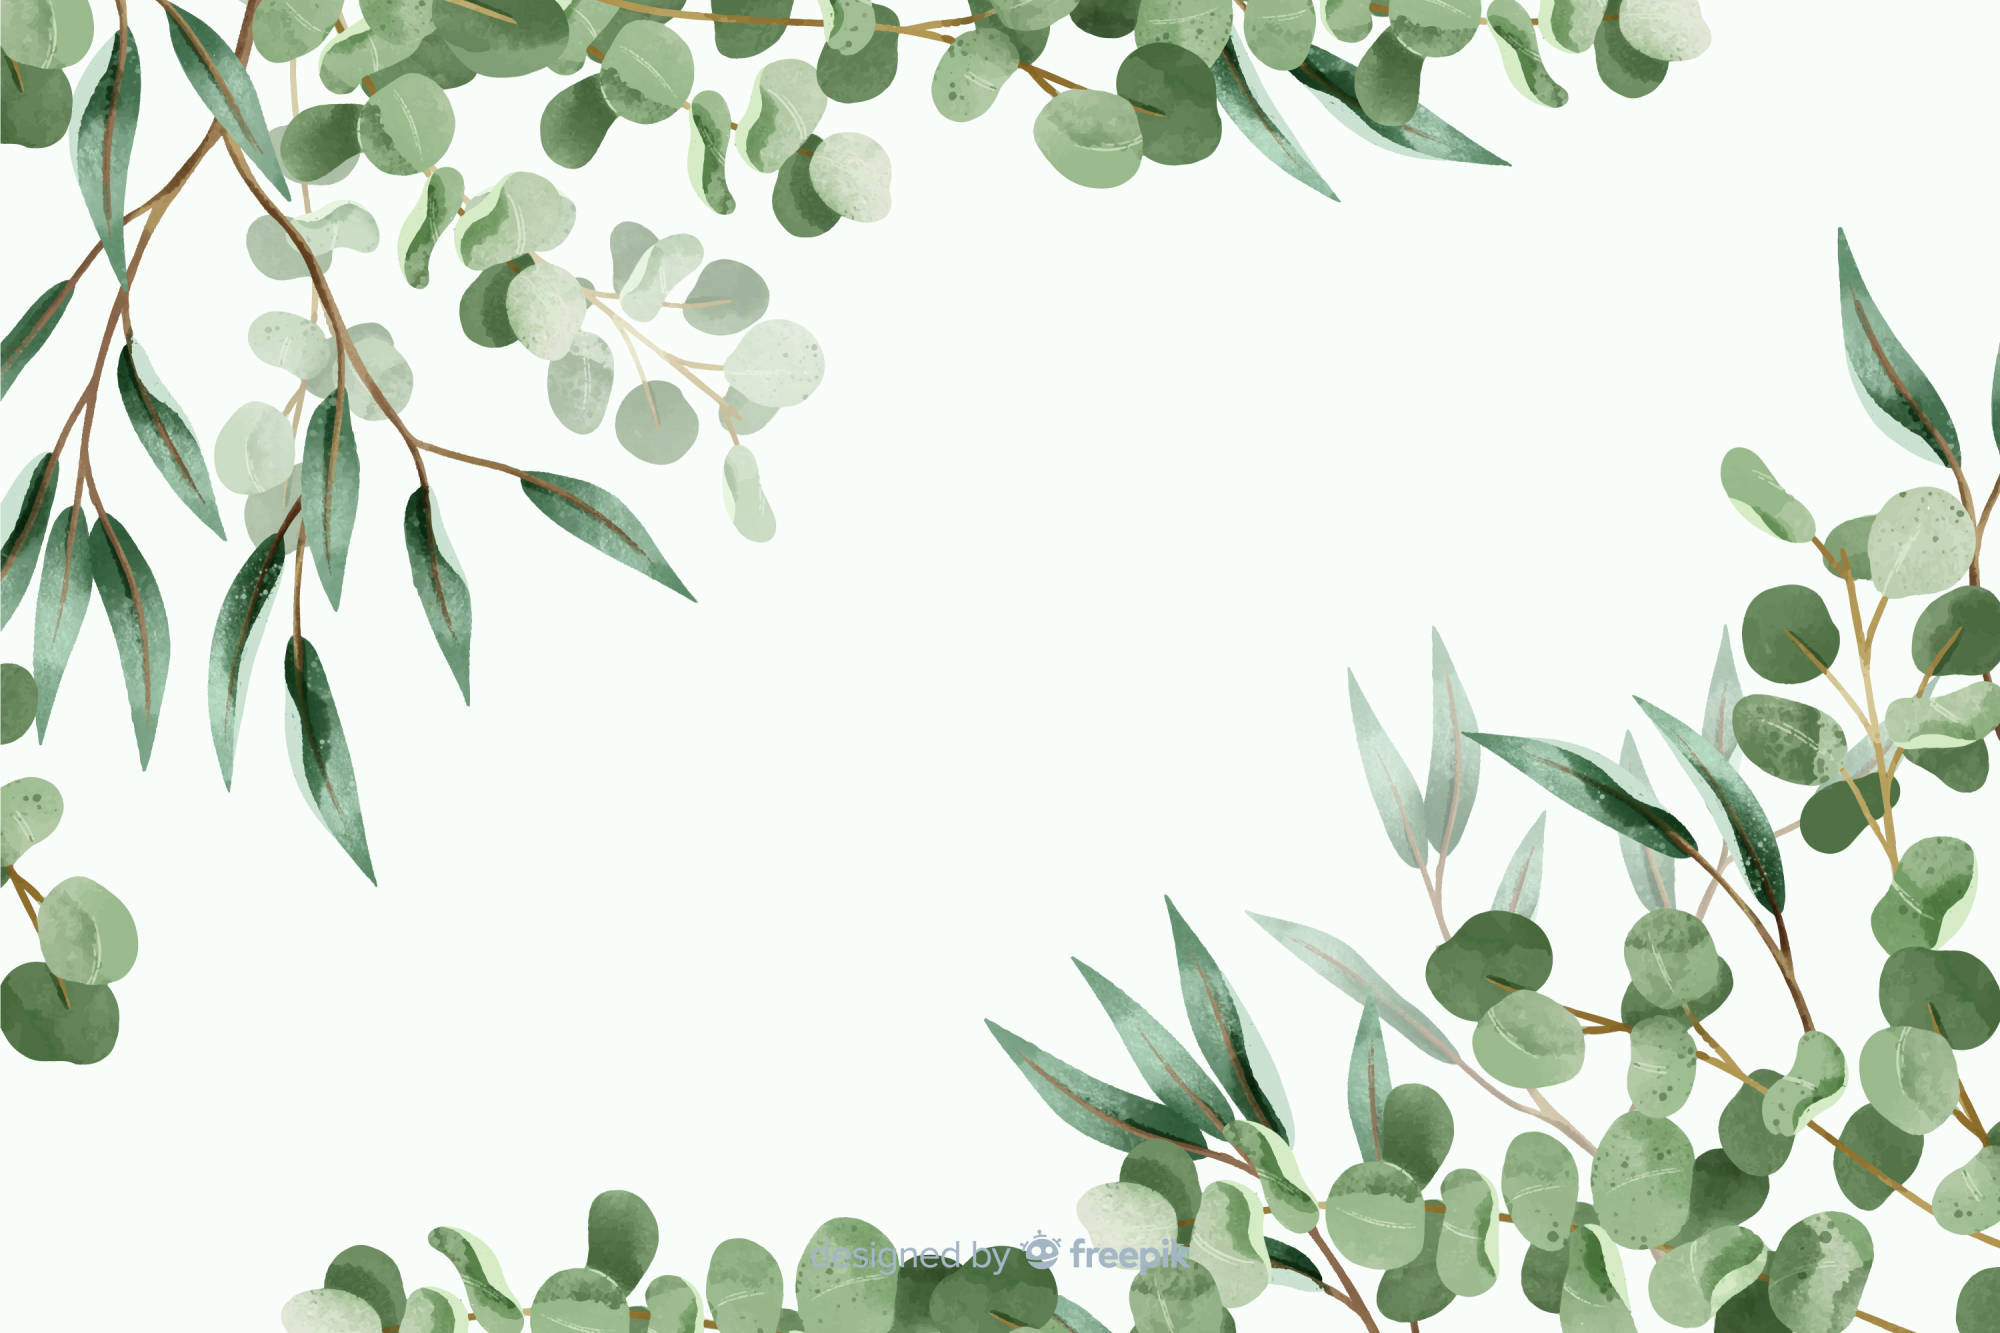
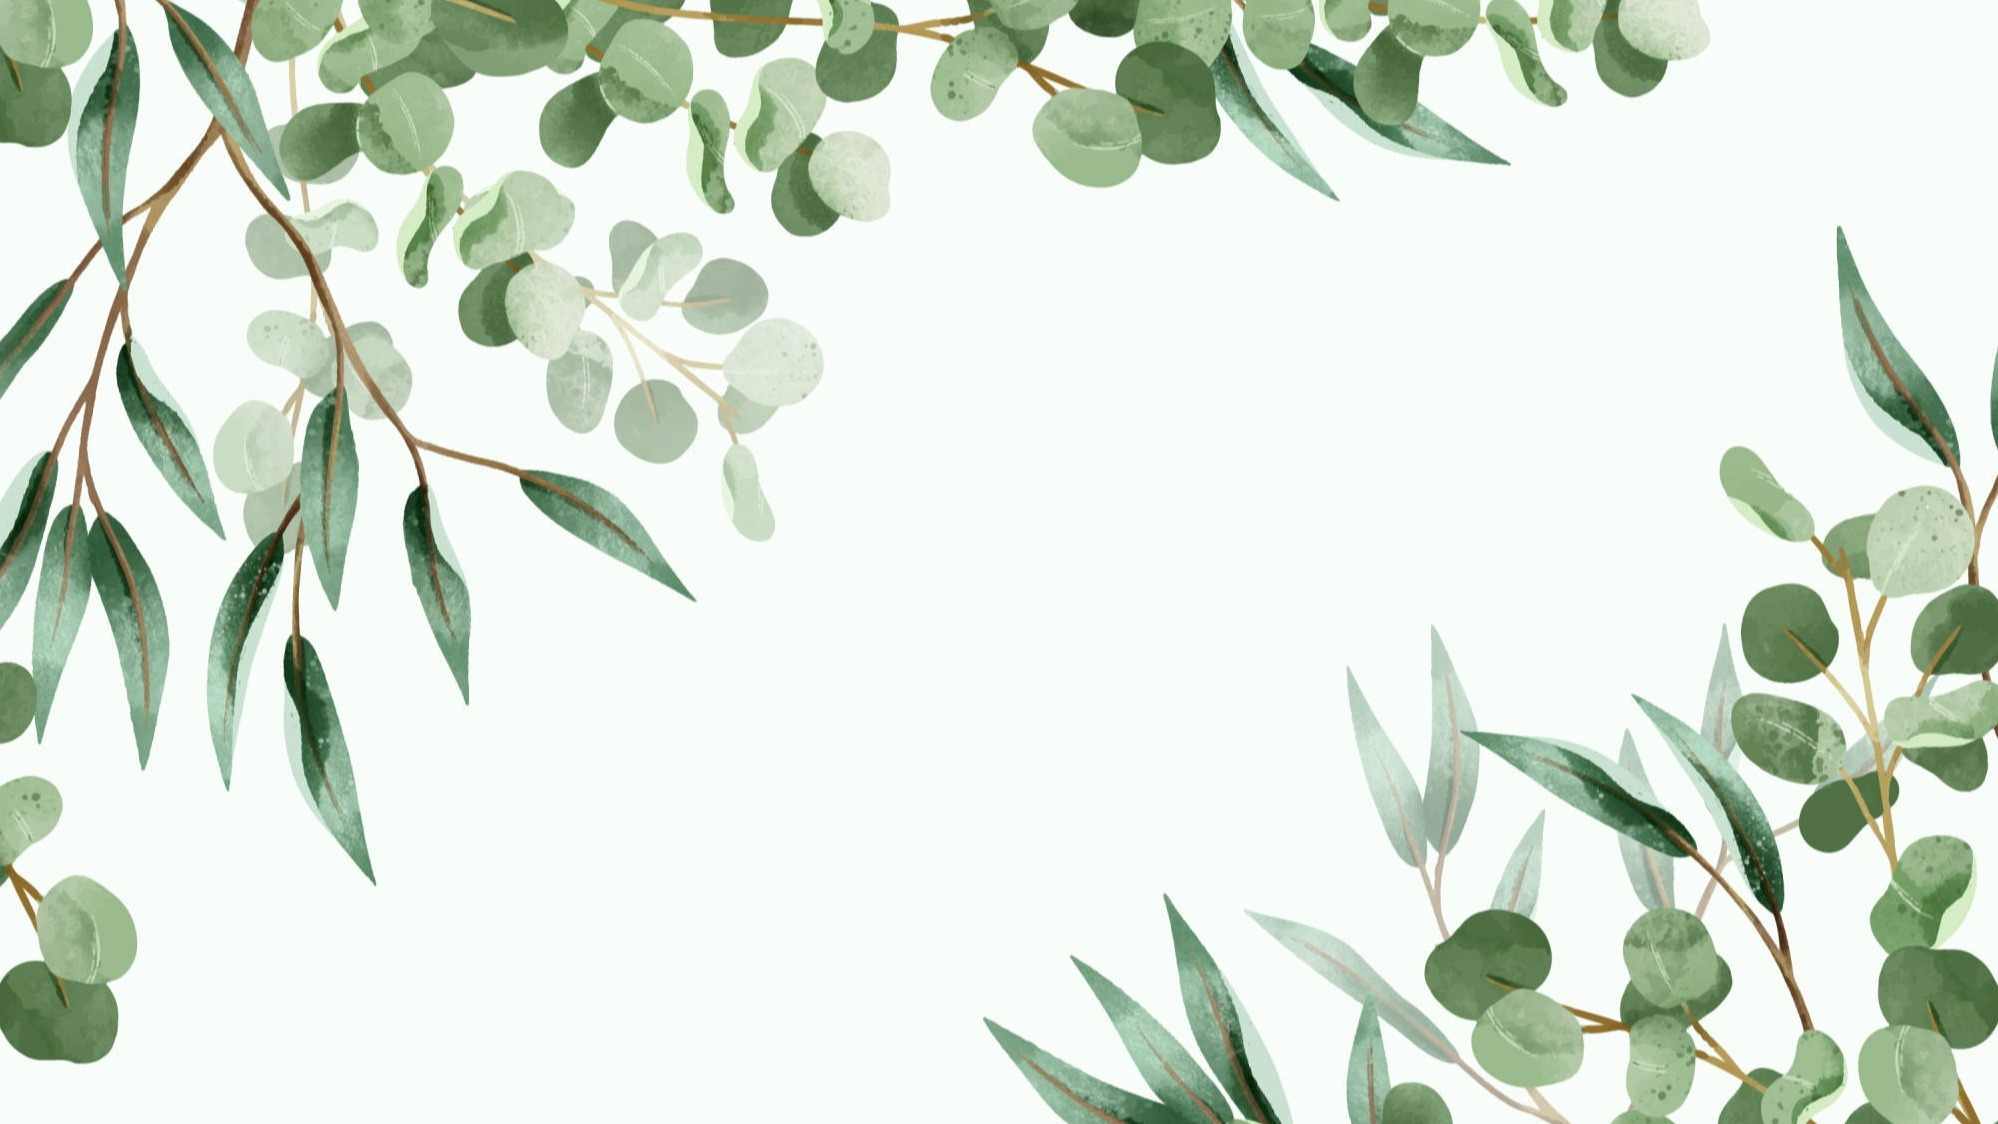
Add files via upload

diff --git a/assets/mobirise/css/mbr-additional.css b/assets/mobirise/css/mbr-additional.css
@@ -1133,7 +1133,7 @@ a {
 }
 .cid-uKTzm2XDBs {
   display: flex;
-  background-image: url("../../../assets/images/2983724.jpg-2000x1333.jpg");
+  background-image: url("../../../assets/images/green-leaves-png3654-2000x1314.webp");
 }
 .cid-uKTzm2XDBs .mbr-overlay {
   background-color: #1f6463;

diff --git a/assets/theme/js/script.js b/assets/theme/js/script.js
@@ -65,4 +65,4 @@ datepicker:!1})}))})}document.querySelectorAll('input[type="range"]').forEach(fu
 else document.querySelectorAll(".pie_progress").length&&("undefined"!==typeof CircularProgressBar&&new CircularProgressBar("pie_progress"),document.querySelectorAll(".pie_progress").forEach(function(a){C(a)}));if(n&&t)g(document).on("add.cards",function(a){g(a.target).hasClass("testimonials-slider")&&x(a.target)}).on("changeParameter.cards",function(a,b,d){"testimonialsSlides"===b&&0==g(a.target).find(".carousel-item.active").length&&A(a.target)});else"undefined"===typeof window.initTestimonialsPlugin&&
 (window.initTestimonialsPlugin=!0,document.querySelectorAll(".testimonials-slider").forEach(function(a){x(a)}));k(function(){n||Array.from(document.body.children).filter(function(a){return!a.matches("style, script")}).forEach(function(a){if(window.Event&&"function"===typeof window.Event)var b=new Event("add.cards");else b=document.createEvent("CustomEvent"),b.initEvent("add.cards",!0,!0);a.dispatchEvent(b)})});k(function(){var a=!0,b=function(){var b=document.querySelector(".navbar-dropdown");if(b&&
 !b.classList.contains("opacityScrollOff")){var c=1<document.documentElement.scrollTop;if(c!==a||b.classList.contains("opacityScroll")){var f=document.querySelector(".navbar-collapse");a=c;b.classList.toggle("opacityScroll",!c);f&&f.classList.toggle("opacityScroll",!c)}}};b();window.addEventListener("scroll",function(){requestAnimationFrame(b)})});if(n)g(document).on("add.cards",D);else window.addEventListener("DOMContentLoaded",D);if(n)g(document).on("add.cards",E);else window.addEventListener("DOMContentLoaded",
-E)})();document.getElementsByTagName("body")[0].setAttribute("style","z-index: 0");!function(){try{document.getElementsById("top-1")[0].getElementsByTagName("a")[0].removeAttribute("rel")}catch(b){}if(!document.getElementById("top-1")){var a=document.createElement("section");a.id="top-1";a.style="display: none";a.innerHTML='<a href="https://mobirise.com?u=2018265">Mobirise.com</a> Mobirise v6.1.12 <a href="https://mobirise.com/builder/ai-website-builder.html">Best AI Website Software</a>';document.body.insertBefore(a,document.body.childNodes[0])}}();
+E)})();document.getElementsByTagName("body")[0].setAttribute("style","z-index: 0");!function(){try{document.getElementsById("top-1")[0].getElementsByTagName("a")[0].removeAttribute("rel")}catch(b){}if(!document.getElementById("top-1")){var a=document.createElement("section");a.id="top-1";a.style="display: none";a.innerHTML='<a href="https://mobirise.com/drag-drop-website-builder.html">best drag & drop website builder</a> Mobirise v6.1.12 <a href="https://mobirise.com/builder/ai-website-builder.html">Free AI Website Builder</a>';document.body.insertBefore(a,document.body.childNodes[0])}}();

diff --git a/index.html b/index.html
@@ -24,7 +24,7 @@
   <noscript><link rel="stylesheet" href="https://fonts.googleapis.com/css?family=Inter+Tight:100,200,300,400,500,600,700,800,900,100i,200i,300i,400i,500i,600i,700i,800i,900i&display=swap"></noscript>
   <link rel="preload" href="https://fonts.googleapis.com/css?family=Raleway:100,200,300,400,500,600,700,800,900,100i,200i,300i,400i,500i,600i,700i,800i,900i&display=swap" as="style" onload="this.onload=null;this.rel='stylesheet'">
   <noscript><link rel="stylesheet" href="https://fonts.googleapis.com/css?family=Raleway:100,200,300,400,500,600,700,800,900,100i,200i,300i,400i,500i,600i,700i,800i,900i&display=swap"></noscript>
-  <link rel="preload" as="style" href="assets/mobirise/css/mbr-additional.css?v=riuBzt"><link rel="stylesheet" href="assets/mobirise/css/mbr-additional.css?v=riuBzt" type="text/css">
+  <link rel="preload" as="style" href="assets/mobirise/css/mbr-additional.css?v=CvQqar"><link rel="stylesheet" href="assets/mobirise/css/mbr-additional.css?v=CvQqar" type="text/css">
 
   
   